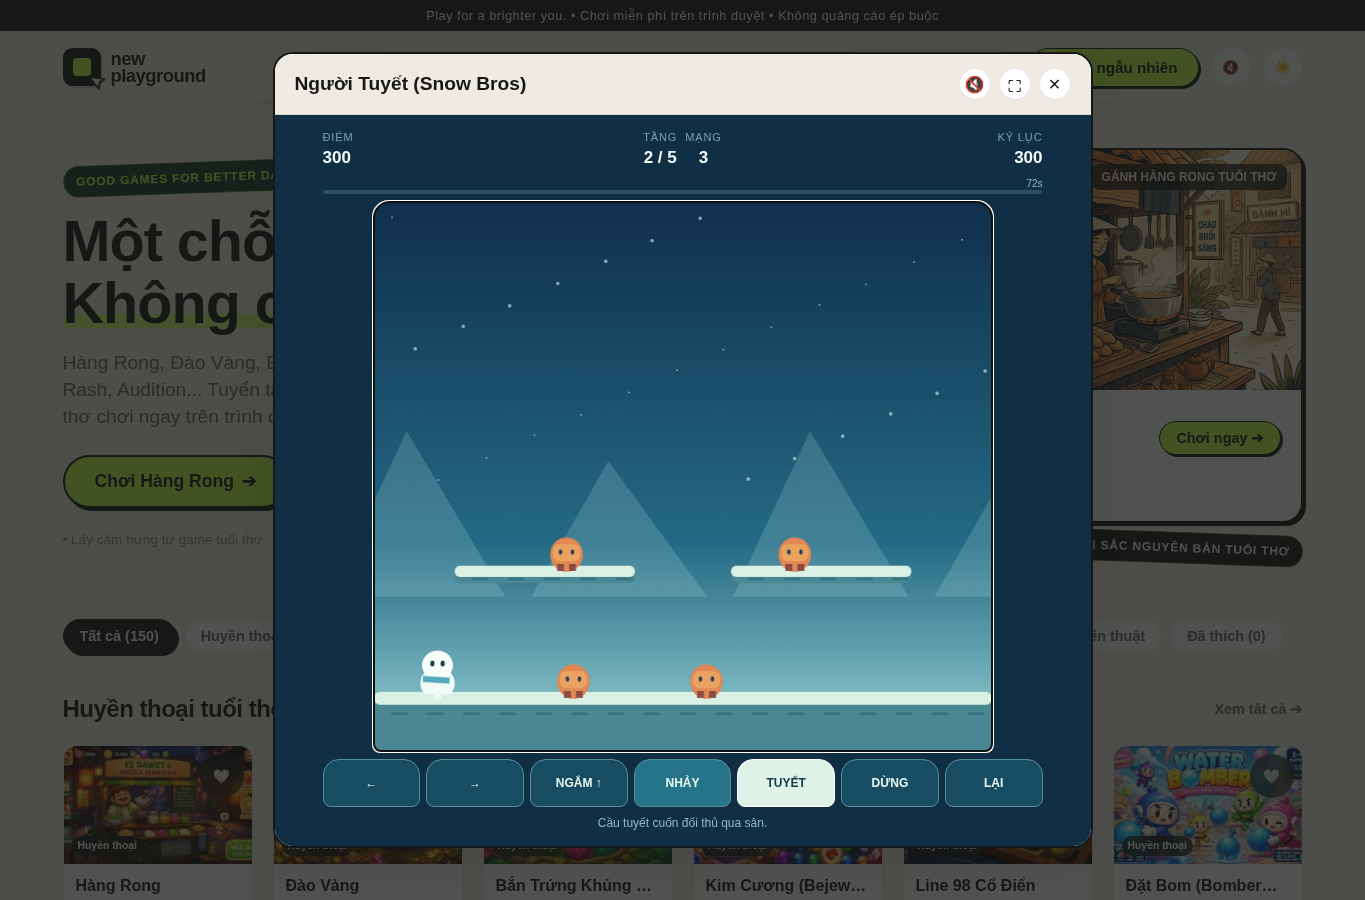
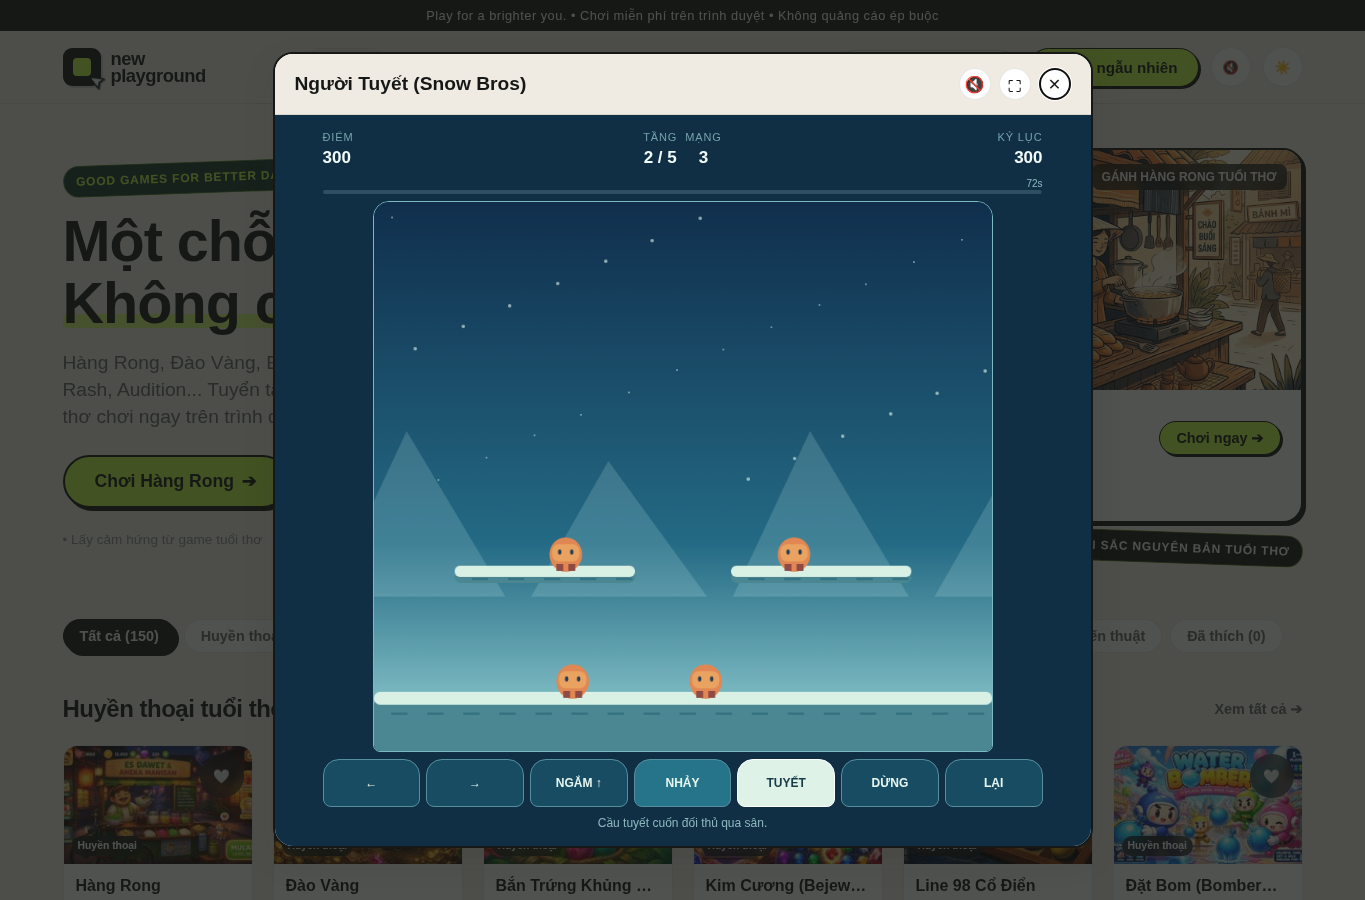
Steepen Snow Bros upward throws for ledge play

diff --git a/scripts/engines-archetypes.js b/scripts/engines-archetypes.js
@@ -2435,7 +2435,7 @@
 
   // Snow Bros arcade loop: accumulate snow, freeze one opponent into a ball,
   // then kick the rolling ball through the rest of that fixed-screen wave.
-  const SNOW_BROS = Object.freeze({ width: 720, height: 640, ground: 578, jumpSpeed: 600, maxStage: 5, freezeHits: 3, stageSeconds: 72 });
+  const SNOW_BROS = Object.freeze({ width: 720, height: 640, ground: 578, jumpSpeed: 600, maxStage: 5, freezeHits: 3, stageSeconds: 72, upwardThrowRadians: 0.74 });
   const SNOW_PLATFORMS = Object.freeze([
     [{ x: 0, y: 578, w: 720 }],
     [{ x: 0, y: 578, w: 720 }, { x: 94, y: 430, w: 210 }, { x: 416, y: 430, w: 210 }],
@@ -2486,7 +2486,7 @@
       state.lastEvent = { type: 'kick', enemy: frozen.id };
       return true;
     }
-    const angle = direction < 0 ? -0.58 : direction > 0 ? 0.28 : 0;
+    const angle = direction < 0 ? -SNOW_BROS.upwardThrowRadians : direction > 0 ? 0.28 : 0;
     state.shots.push({ x: p.x + p.facing * 20, y: p.y + 20, vx: Math.cos(angle) * p.facing * 420,
       vy: Math.sin(angle) * 420, life: 1.15 });
     state.fireCooldown = 0.24;

diff --git a/docs/qa/contra-snow-bros-batch-20261011.md b/docs/qa/contra-snow-bros-batch-20261011.md
@@ -27,21 +27,21 @@
 
 ### Model and static checks
 
-- `node --test tests/contra-snow-bros-model.test.cjs tests/game-flow.test.cjs`: **55/55 passed** after the final model change.
-- Final full-suite after the timer, upward-throw and QA coverage changes: `node --test tests/*.test.cjs`, **103/103 passed**; Snow/Contra model plus flow tests: **55/55 passed**.
+- `node --test tests/contra-snow-bros-model.test.cjs tests/game-flow.test.cjs`: **58/58 passed** after the final model change.
+- Final full-suite after the timer, upward-throw and QA coverage changes: `node --test tests/*.test.cjs`, **102/102 passed**; Snow/Contra model plus flow tests: **58/58 passed**.
 - Syntax checks passed: `node --check app.js`, `scripts/engines-archetypes.js`, `scripts/engines.js`, `tests/game-flow.test.cjs` and `tests/contra-snow-bros-model.test.cjs`. `git diff --check` passed. This static repo has no `package.json` build/lint script.
 
 ### Browser playthrough
 
 - **Browser:** Playwright driving Chromium 151.0.7922.173, headless Linux; the Browser plugin was unavailable in this runtime, so direct Playwright was used. A static HTTP server served the current worktree. Both titles were opened through `window.openGameById()` and their exact model canvas was found; neither rendered the shared `#arcCanvas` fallback.
 - **Contra, desktop 1365×900:** a first unplanned Right + X run lost all three lives before the area-3 boss, showing the controller was rushing into fire. A second state-guided controller selected the nearest live target and jumped when visible enemy shots were on a collision path. It used actual held Arrow/Space/X keyboard events and a read-only cloned state probe; it cleared all 18 authored enemies and all three bosses, ending `won` at area 3 with score 5,060, all 3 lives, and zero page/console errors in 26.3 seconds. The browser saved [area 1](./contra-snow-bros-batch-20261011/screenshots/contra-campaign/area-1-start.png), [area 2](./contra-snow-bros-batch-20261011/screenshots/contra-campaign/area-2-start.png), [area 3](./contra-snow-bros-batch-20261011/screenshots/contra-campaign/area-3-start.png), and [victory](./contra-snow-bros-batch-20261011/screenshots/contra-campaign/terminal.png) at the same viewport.
-- **Snow Bros, desktop 1365×900:** a state-guided QA controller used actual held keyboard events against the browser game, with a read-only cloned state probe for route/aim selection. It cleared all five authored waves in 88.8 seconds, ending `won` at 5/5 with score 2,440, all 3 lives, and zero page/console errors. The stage-three browser capture shows the raised platforms as thin floating shelves with open space below. The model test verifies a jump passes upward through a shelf and lands on descent, matching the one-way collision rule. Captures include [wave 1](./contra-snow-bros-batch-20261011/screenshots/snow-campaign/stage-1-start.png), [wave 2](./contra-snow-bros-batch-20261011/screenshots/snow-campaign/stage-2-start.png), [wave 3](./contra-snow-bros-batch-20261011/screenshots/snow-campaign/stage-3-start.png), [wave 4](./contra-snow-bros-batch-20261011/screenshots/snow-campaign/stage-4-start.png), [wave 5](./contra-snow-bros-batch-20261011/screenshots/snow-campaign/stage-5-start.png), and the [terminal victory](./contra-snow-bros-batch-20261011/screenshots/snow-campaign/five-wave-victory.png). Earlier interaction checks remain: an idle run lost all lives; `LẠI` restored wave 1 and 3 lives; record persisted after close/reopen; three extra open/close cycles left no current session.
+- **Snow Bros, desktop 1365×900:** after tuning the upward throw to 0.74 radians (~42°), a state-guided controller used actual held Space/arrow/X keyboard events, with a read-only live-state clone for aiming/routing. It froze elevated enemies from a safe lower lane, then jumped to kick the frozen balls. The final run cleared all five authored waves, ending `won` at 5/5 with score **3,440**, all **3 lives**, `state.elapsed` **98.1s** and **145.1s wall time**, with zero page/console errors. The wall time includes controller polling and headless browser scheduling; the game clock is capped at 50ms per frame. This is automated-input evidence, not human play. The stage-three browser capture shows the raised platforms as thin floating shelves with open space below. The model tests verify both one-way platform traversal and the steeper arc reaching the center ledge from the floor. Captures include [wave 1](./contra-snow-bros-batch-20261011/screenshots/snow-campaign/stage-1-start.png), [wave 2](./contra-snow-bros-batch-20261011/screenshots/snow-campaign/stage-2-start.png), [wave 3](./contra-snow-bros-batch-20261011/screenshots/snow-campaign/stage-3-start.png), [wave 4](./contra-snow-bros-batch-20261011/screenshots/snow-campaign/stage-4-start.png), [wave 5](./contra-snow-bros-batch-20261011/screenshots/snow-campaign/stage-5-start.png), and the [fresh terminal victory](./contra-snow-bros-batch-20261011/screenshots/snow-campaign/five-wave-victory-20261012.png). Earlier interaction checks remain: an idle run lost all lives; `LẠI` restored wave 1 and 3 lives; record persisted after close/reopen; three extra open/close cycles left no current session.
 - **Mobile emulation 390×844 with touch:** after the presentation pass, both games accepted touchscreen pause, resume and restart; probes confirmed the phases `paused` → `playing` → restarted `playing`. No horizontal overflow; action controls measured 88.8×48px for Contra and 88×48px for Snow Bros. Contra's board measured 364×205 at 16:9 and Snow Bros 364×324 at 9:8. The current [Contra mobile capture](./contra-snow-bros-batch-20261011/screenshots/contra-campaign/mobile-after-ui.png) and [Snow Bros mobile capture](./contra-snow-bros-batch-20261011/screenshots/snow-campaign/mobile-after-ui.png) show the 48px controls. Browser page/console errors: zero. This is emulated touch, not physical-device QA.
 - **Desktop geometry:** Contra uses a 960×540 (16:9) board at 1365×900. Snow Bros uses a 620×551 (9:8) board at that viewport; all seven control buttons and the status line fit inside the modal.
 - **72-second timer visibility check:** the fresh [mobile capture](./contra-snow-bros-batch-20261011/screenshots/snow-campaign/mobile-after-ui.png) shows `72s` on a 390×844 viewport, a 364×324 (9:8) board, no horizontal overflow, and touch controls at 88×48px; zero page/console errors. The desktop wave-start capture also shows the aligned timer row with 72 seconds at wave start.
 - **Screenshots:** `screenshots/contra-before-desktop.png`, `contra-after-desktop.png`, `contra-area-clear-desktop.png`, `contra-play-desktop.png`, `contra-before-mobile.png`, `contra-after-mobile.png`; corresponding `snow-bros-*` before/after desktop and mobile, plus `snow-bros-play-desktop.png` and `snow-bros-loss-desktop.png`. Before and after captures use the same viewport per device.
 - **Performance observation:** before the earlier modal fix, the shared modal's 6px backdrop blur coincided with 66.8ms median animation-frame spacing in a fallback modal; turning that blur off produced 16.7ms median in the same browser. Both new games disable that backdrop effect only while open. The post-blur-removal 90-frame samples were 16.7ms median / 33.3ms p95 for both canvases; the later presentation pass adds no per-frame work. This is a local headless scheduling sample, not a physical-device FPS guarantee.
-- **Presentation pass after gameplay QA:** the Snow Bros shelves remain thin floating ledges with visible open space beneath them; the stage-3 screenshot plus the one-way platform model test show the upward pass-through and downward landing behavior. Both games now use 48px minimum mobile buttons, prevent selection/callout while holding touch controls, expose a visible canvas keyboard-focus ring, and remove pressed-button transform motion when reduced motion is requested. These are CSS/input-presentation changes only; game rules and simulation are unchanged.
+- **Presentation and gameplay pass:** Snow Bros retains thin floating ledges with visible open space beneath them. After the first 33° trajectory repeatedly missed center-platform targets when they moved, the upward arc was tuned to 42° and a deterministic regression test was added for a central-ledge hit from the floor. Both games use 48px minimum mobile buttons, prevent selection/callout while holding touch controls, expose a visible canvas keyboard-focus ring, and remove pressed-button transform motion when reduced motion is requested. The Snow Bros projectile trajectory changed; other changes in this presentation pass are CSS/input-presentation changes.
 
 ### Remaining limits
 

diff --git a/docs/GAME_COVERAGE.md b/docs/GAME_COVERAGE.md
@@ -42,7 +42,7 @@ This ledger tracks **title-specific work and evidence in this improvement effort
 | 030 | `chem-hoa-qua` | Chém Hoa Quả (Fruit Ninja) | No title-specific edits or browser play in this effort. | Pin exact edition/source; research rules, layout/HUD/input/timing/progression; implement and play through relevant states in browser; save before/after evidence. |
 | 031 | `lua-va-nuoc` | Lửa & Nước (Fireboy & Watergirl) | No title-specific edits or browser play in this effort. | Pin exact edition/source; research rules, layout/HUD/input/timing/progression; implement and play through relevant states in browser; save before/after evidence. |
 | 032 | `mario-co-dien` | Super Mario Cổ Điển | No title-specific edits or browser play in this effort. | Pin exact edition/source; research rules, layout/HUD/input/timing/progression; implement and play through relevant states in browser; save before/after evidence. |
-| 033 | `nguoi-tuyet-snow-bros` | Người Tuyết (Snow Bros) | [Toaplan arcade profile](./game-profiles/snow-bros-arcade.md); model tests cover freeze/kick, one-way platforms, pumpkin, loss and five-wave win; state-guided Chromium keyboard play cleared all five waves (score 2,440, 3 lives, zero page/console errors); 390×844 touch with 72s timer, 48px buttons, pause/resume/restart, record reopen and cleanup passed. Screenshots in [batch QA](./qa/contra-snow-bros-batch-20261011.md). | The browser campaign used a state-guided QA controller rather than a human player; no 50-stage arcade campaign, physical mobile/Safari or accessibility study. |
+| 033 | `nguoi-tuyet-snow-bros` | Người Tuyết (Snow Bros) | [Toaplan arcade profile](./game-profiles/snow-bros-arcade.md); model tests cover freeze/kick, one-way platforms, pumpkin, loss, five-wave win and 42° upward-shot reach; state-guided Chromium keyboard play cleared all five waves (score 3,440, 3 lives, zero page/console errors; 98.1s game clock / 145.1s wall time); 390×844 touch with 72s timer, 48px buttons, pause/resume/restart, record reopen and cleanup passed. Screenshots in [batch QA](./qa/contra-snow-bros-batch-20261011.md). | The browser campaign used a state-guided QA controller rather than a human player; no 50-stage arcade campaign, physical mobile/Safari or accessibility study. |
 | 034 | `angry-birds-mini` | Bắn Chim Angry Birds | No title-specific edits or browser play in this effort. | Pin exact edition/source; research rules, layout/HUD/input/timing/progression; implement and play through relevant states in browser; save before/after evidence. |
 | 035 | `cut-the-rope` | Cắt Dây Cho Ếch Om Nom | No title-specific edits or browser play in this effort. | Pin exact edition/source; research rules, layout/HUD/input/timing/progression; implement and play through relevant states in browser; save before/after evidence. |
 | 036 | `ban-ruoi-galaga` | Bắn Ruồi (Galaga) | [Dedicated Galaga prototype](./game-profiles/galaga-1981-arcade.md); model tests 11/11; browser natural play defeated 5/40 but did not clear, plus seeded clear/next stage, capture/rescue, game over/restart, touch, local record, pause and close/reopen. [Evidence](./qa/galaga-batch-20261011.md). | Compare formation/scoring/attack/capture/challenge timing with a pinned ROM/board; observe natural wave clear; test physical devices, accessibility and frame time. |

diff --git a/docs/game-profiles/snow-bros-arcade.md b/docs/game-profiles/snow-bros-arcade.md
@@ -9,7 +9,7 @@
 
 - **Goal and loop:** move and jump around a fixed arena. A snow shot needs three hits in this adaptation to freeze an enemy. Stand within range and keep firing to kick the frozen foe; the ball rolls across the platform, removes foes it hits and can start another ball when it hits a frozen enemy. Clear every foe to open the next wave; clear wave 5 to win.
 - **Failure and restart:** touching an unfrozen foe or the pumpkin removes one of three lives. After a short invulnerability interval, play resumes at the lower-left. Zero lives ends the run. `LẠI` or `R` starts a new wave-1 run; `P`/Escape or `DỪNG` pauses.
-- **Movement and fire:** arrows/A-D move, Space jumps, Up/W aims upward, Down/S aims downward and held `X`/`J` throws or kicks. Upward throws use a 33° arc as an adaptation tuning for the raised platform heights. Raised platforms are drawn as thin floating shelves with open space below; their one-way collision lets a jump pass upward through and catches the player while descending. The built-in five-wave course introduces raised platforms in later waves; stage-specific platform rectangles and enemy counts vary.
+- **Movement and fire:** arrows/A-D move, Space jumps, Up/W aims upward, Down/S aims downward and held `X`/`J` throws or kicks. Upward throws use a 42° arc as local tuning for raised platforms; a model regression test verifies the center ledge can be reached from a safe floor lane. Raised platforms are drawn as thin floating shelves with open space below; their one-way collision lets a jump pass upward through and catches the player while descending. The built-in five-wave course introduces raised platforms in later waves; stage-specific platform rectangles and enemy counts vary.
 - **Threat and items:** a 72-second local timer brings in an invincible pumpkin that pursues the player. Its exact appearance timer is not specified on the reference page; 72 seconds is an adaptation value chosen to leave time for the raised-platform routes. A small generated chance drops a speed potion worth temporary speed and points. Reference speed, snowpower, range and green-form potions, the letter/SNOW bonus, boss intervals, exact point awards and lives/continue tables are not included.
 - **Screen and HUD:** fixed 9:8 playfield with layered blue snow scenery, platform silhouettes, snow accumulation/frozen ball states, compact score/wave/lives/record, and a visible timer strip. Mobile uses the same fixed arena with wide touch controls; the board is not forced into a landscape crop.
 - **Timing/AI:** capped elapsed-time simulation; enemies walk toward the player while staying on their current platform. Shots, freeze intervals, pumpkin pursuit and ball travel are time-based. No measured-device FPS or original speed values are claimed.
